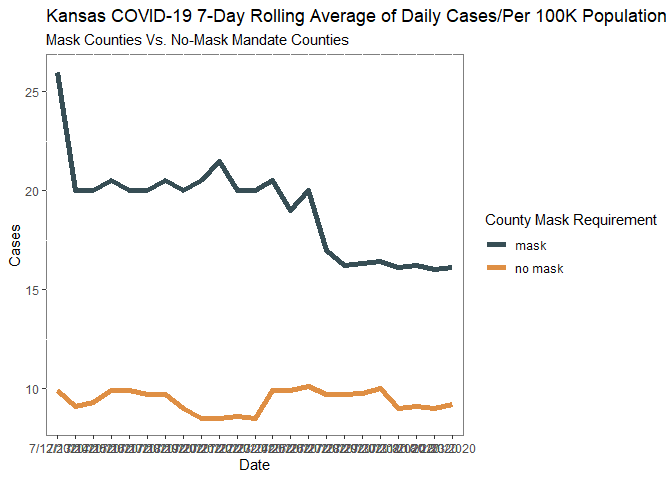
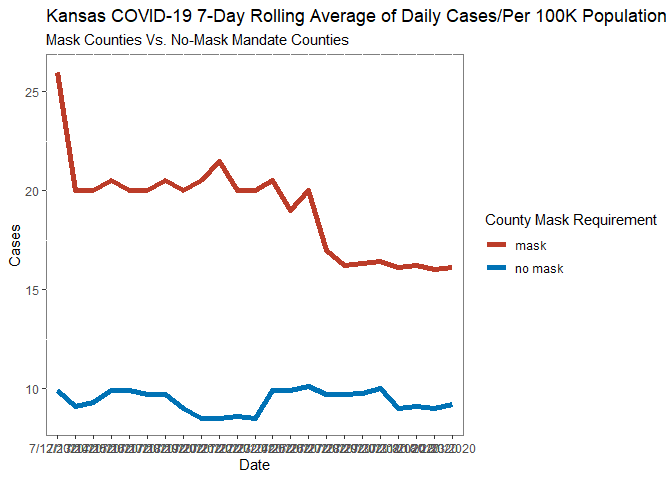
a

diff --git a/lab-07.md b/lab-07.md
@@ -10,6 +10,7 @@ library(tidyverse)
 library(haven)
 library(ggplot2)
 library(ggsci)
+library(plotly)
 ```
 
 this graph is very strange, I don’t understand why there are two y axes
@@ -97,14 +98,27 @@ maskd <- read_csv("C:/Users/Colin/Downloads/mask.csv")
     ## ℹ Specify the column types or set `show_col_types = FALSE` to quiet this message.
 
 ``` r
-maskd %>%
-  ggplot(aes(x = date, y = cases, group = condition, color = condition)) + geom_line(linewidth = 2) + scale_color_jama() + theme(panel.background = element_rect(fill = "white", colour = "grey50"), legend.key = element_rect(fill = "white", color = NA)) + ggtitle("Kansas COVID-19 7-Day Rolling Average of Daily Cases/Per 100K Population") + theme(strip.background = element_rect(fill="white"), strip.text = element_text(size = 10, face = "bold")) + labs(subtitle = "Mask Counties Vs. No-Mask Mandate Counties", x = "Date", y = "Cases", color = "County Mask Requirement")
+m<-ggplot(maskd, aes(x = date, y = cases, group = condition, color = condition)) + geom_line(linewidth = 2) + scale_color_nejm() + theme(panel.background = element_rect(fill = "white", colour = "grey50"), legend.key = element_rect(fill = "white", color = NA)) + ggtitle("Kansas COVID-19 7-Day Rolling Average of Daily Cases/Per 100K Population") + theme(strip.background = element_rect(fill="white"), strip.text = element_text(size = 10, face = "bold")) + labs(subtitle = "Mask Counties Vs. No-Mask Mandate Counties", x = "Date", y = "Cases", color = "County Mask Requirement")
+
+#the x axis looks crowded but once you open the graph in a separate window it actually looks okay. 
+
+m
 ```
 
 ![](lab-07_files/figure-gfm/unnamed-chunk-1-1.png)<!-- -->
 
-### Exercise 2
+``` r
+#I hate to do this every time, but it is really tempting to make this graph interactive
+#ggplotly(m)
+```
 
-…
-
-Add exercise headings as needed.
+The biggest problem with the old graph is that y axis on the left and y
+axis on the right side represent different values. My graph solved this
+problem, it is consistent and clear. Also, my graph shows the starting
+point or baseline for no mask vs. masked counties are very different.
+Mask mandate counties have higher daily cases to begin with than no mask
+counties. What this tells us is wearing masks worked for county with
+high covid cases becasue there’s a huge drop in covid cases in the
+beginning and the end of the red line. We cannot really evaluate the
+effects of masks on no mask counties because they don’t wear masks
+anyway.
